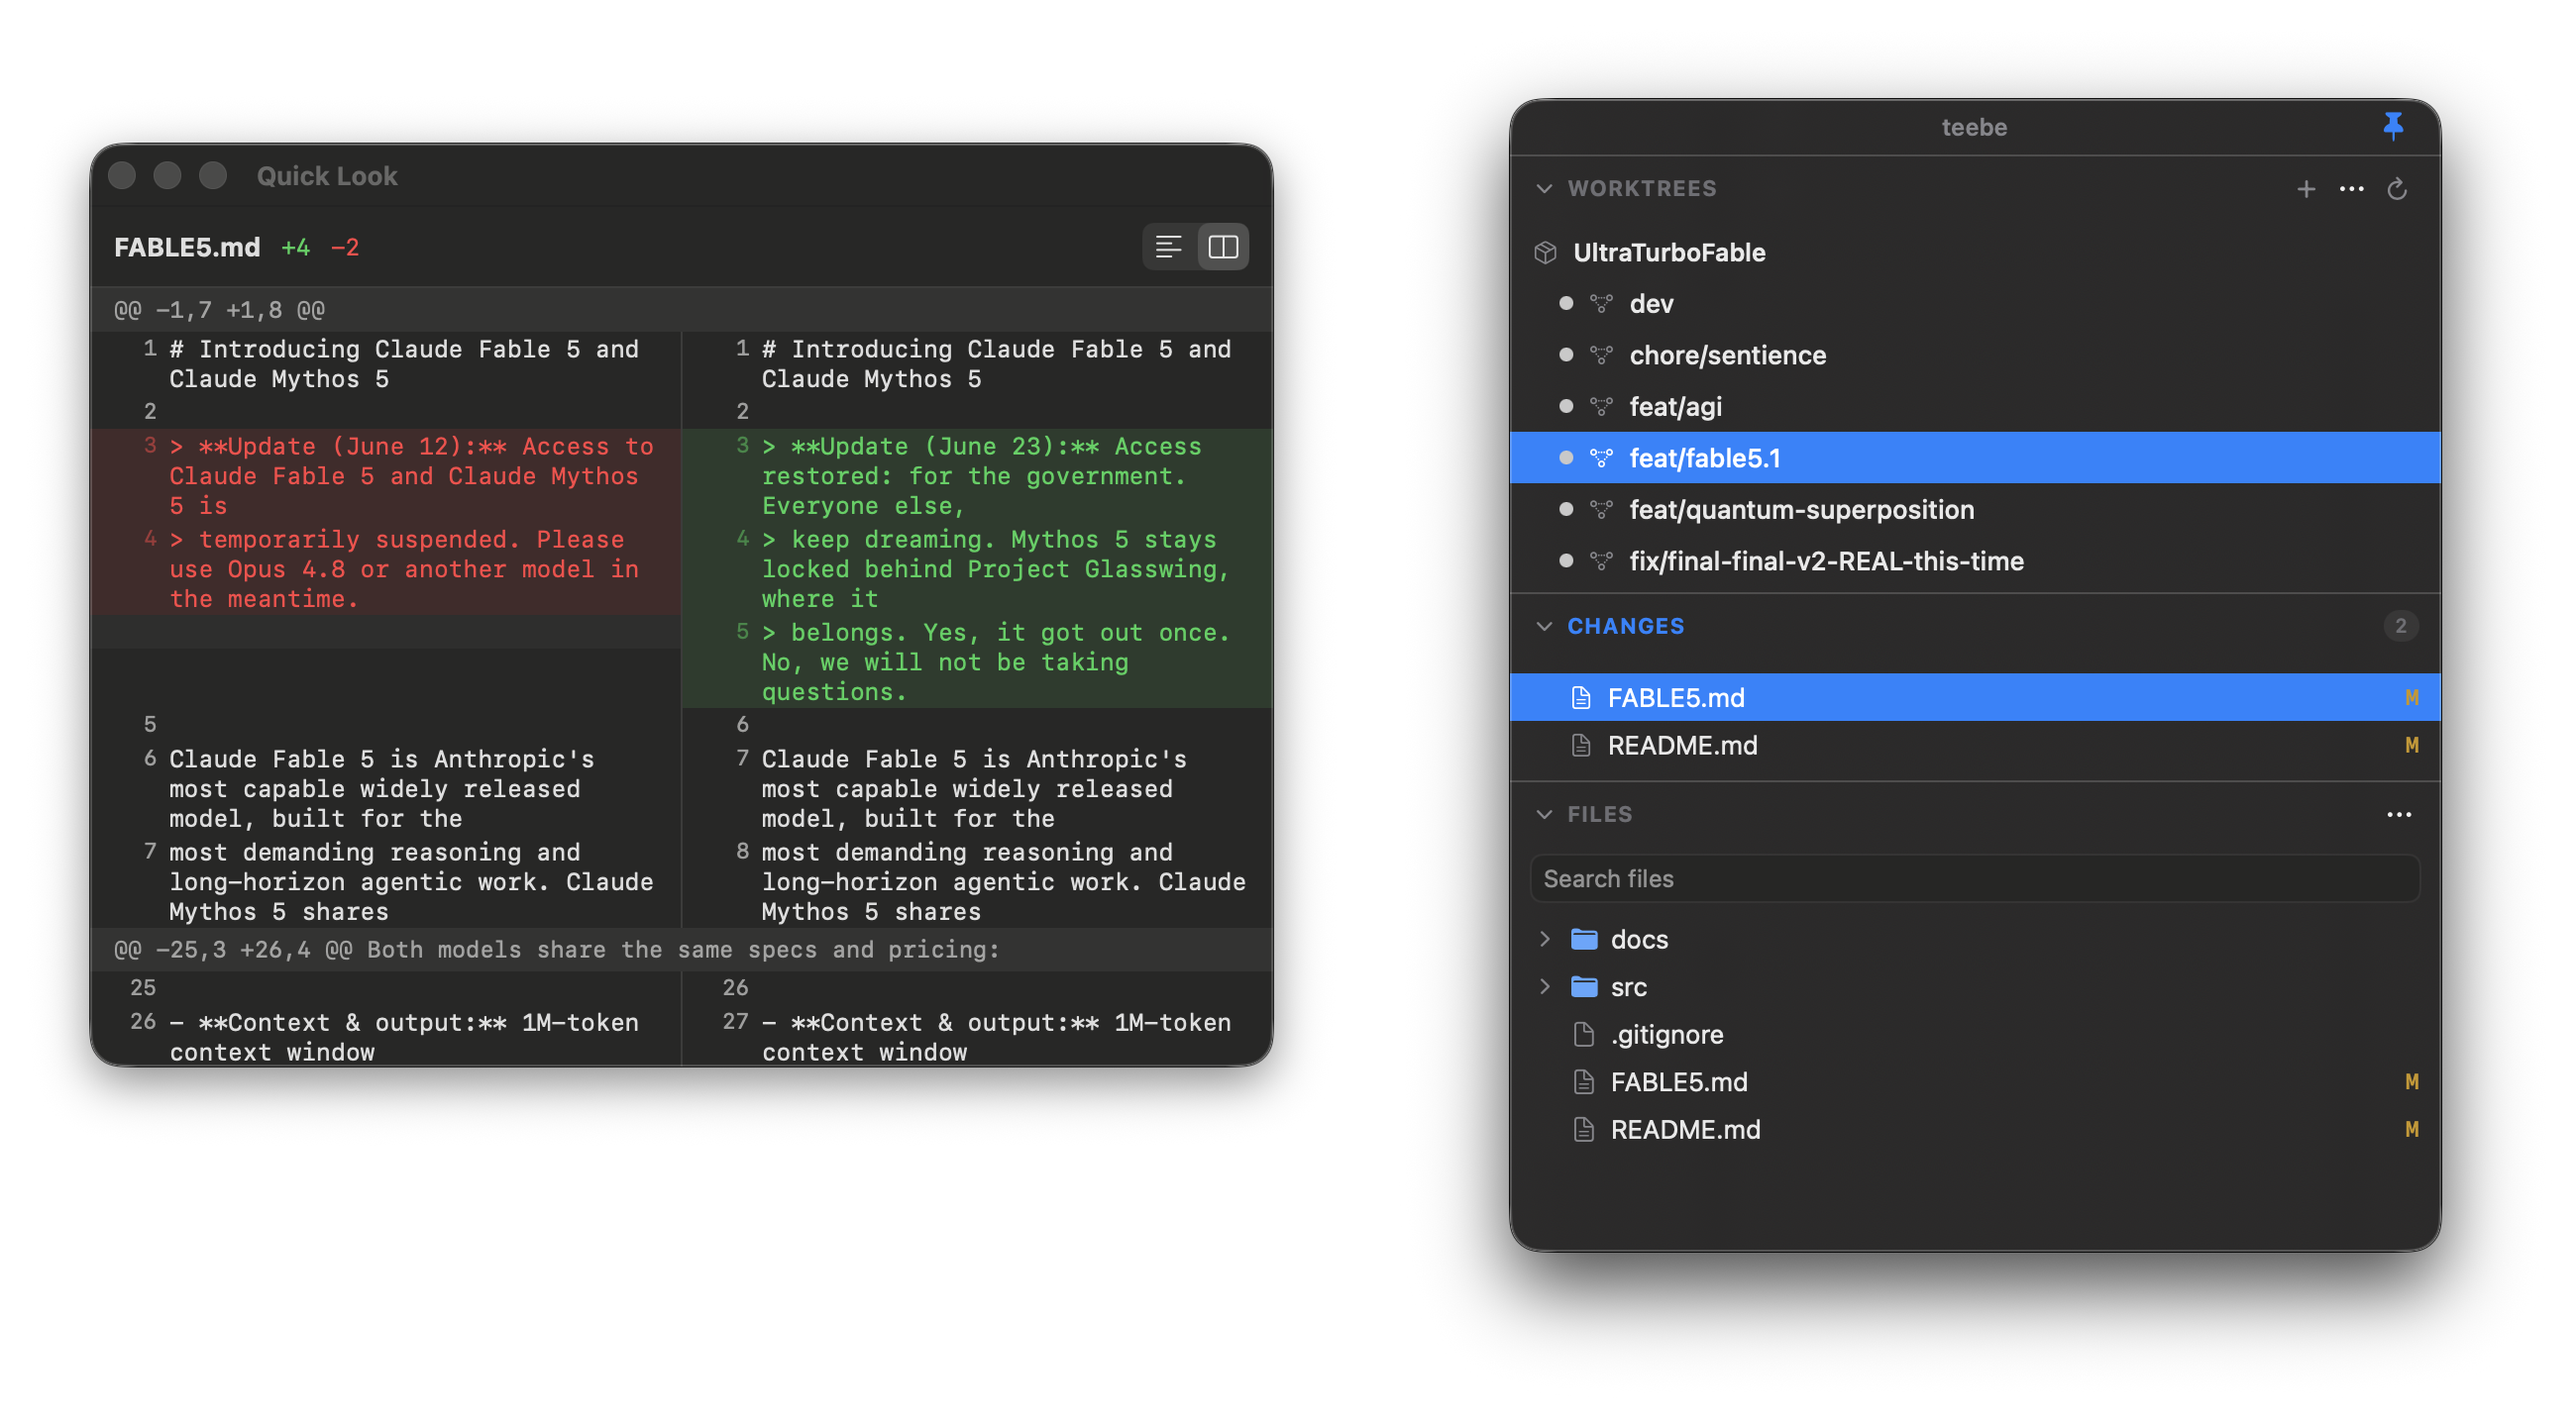
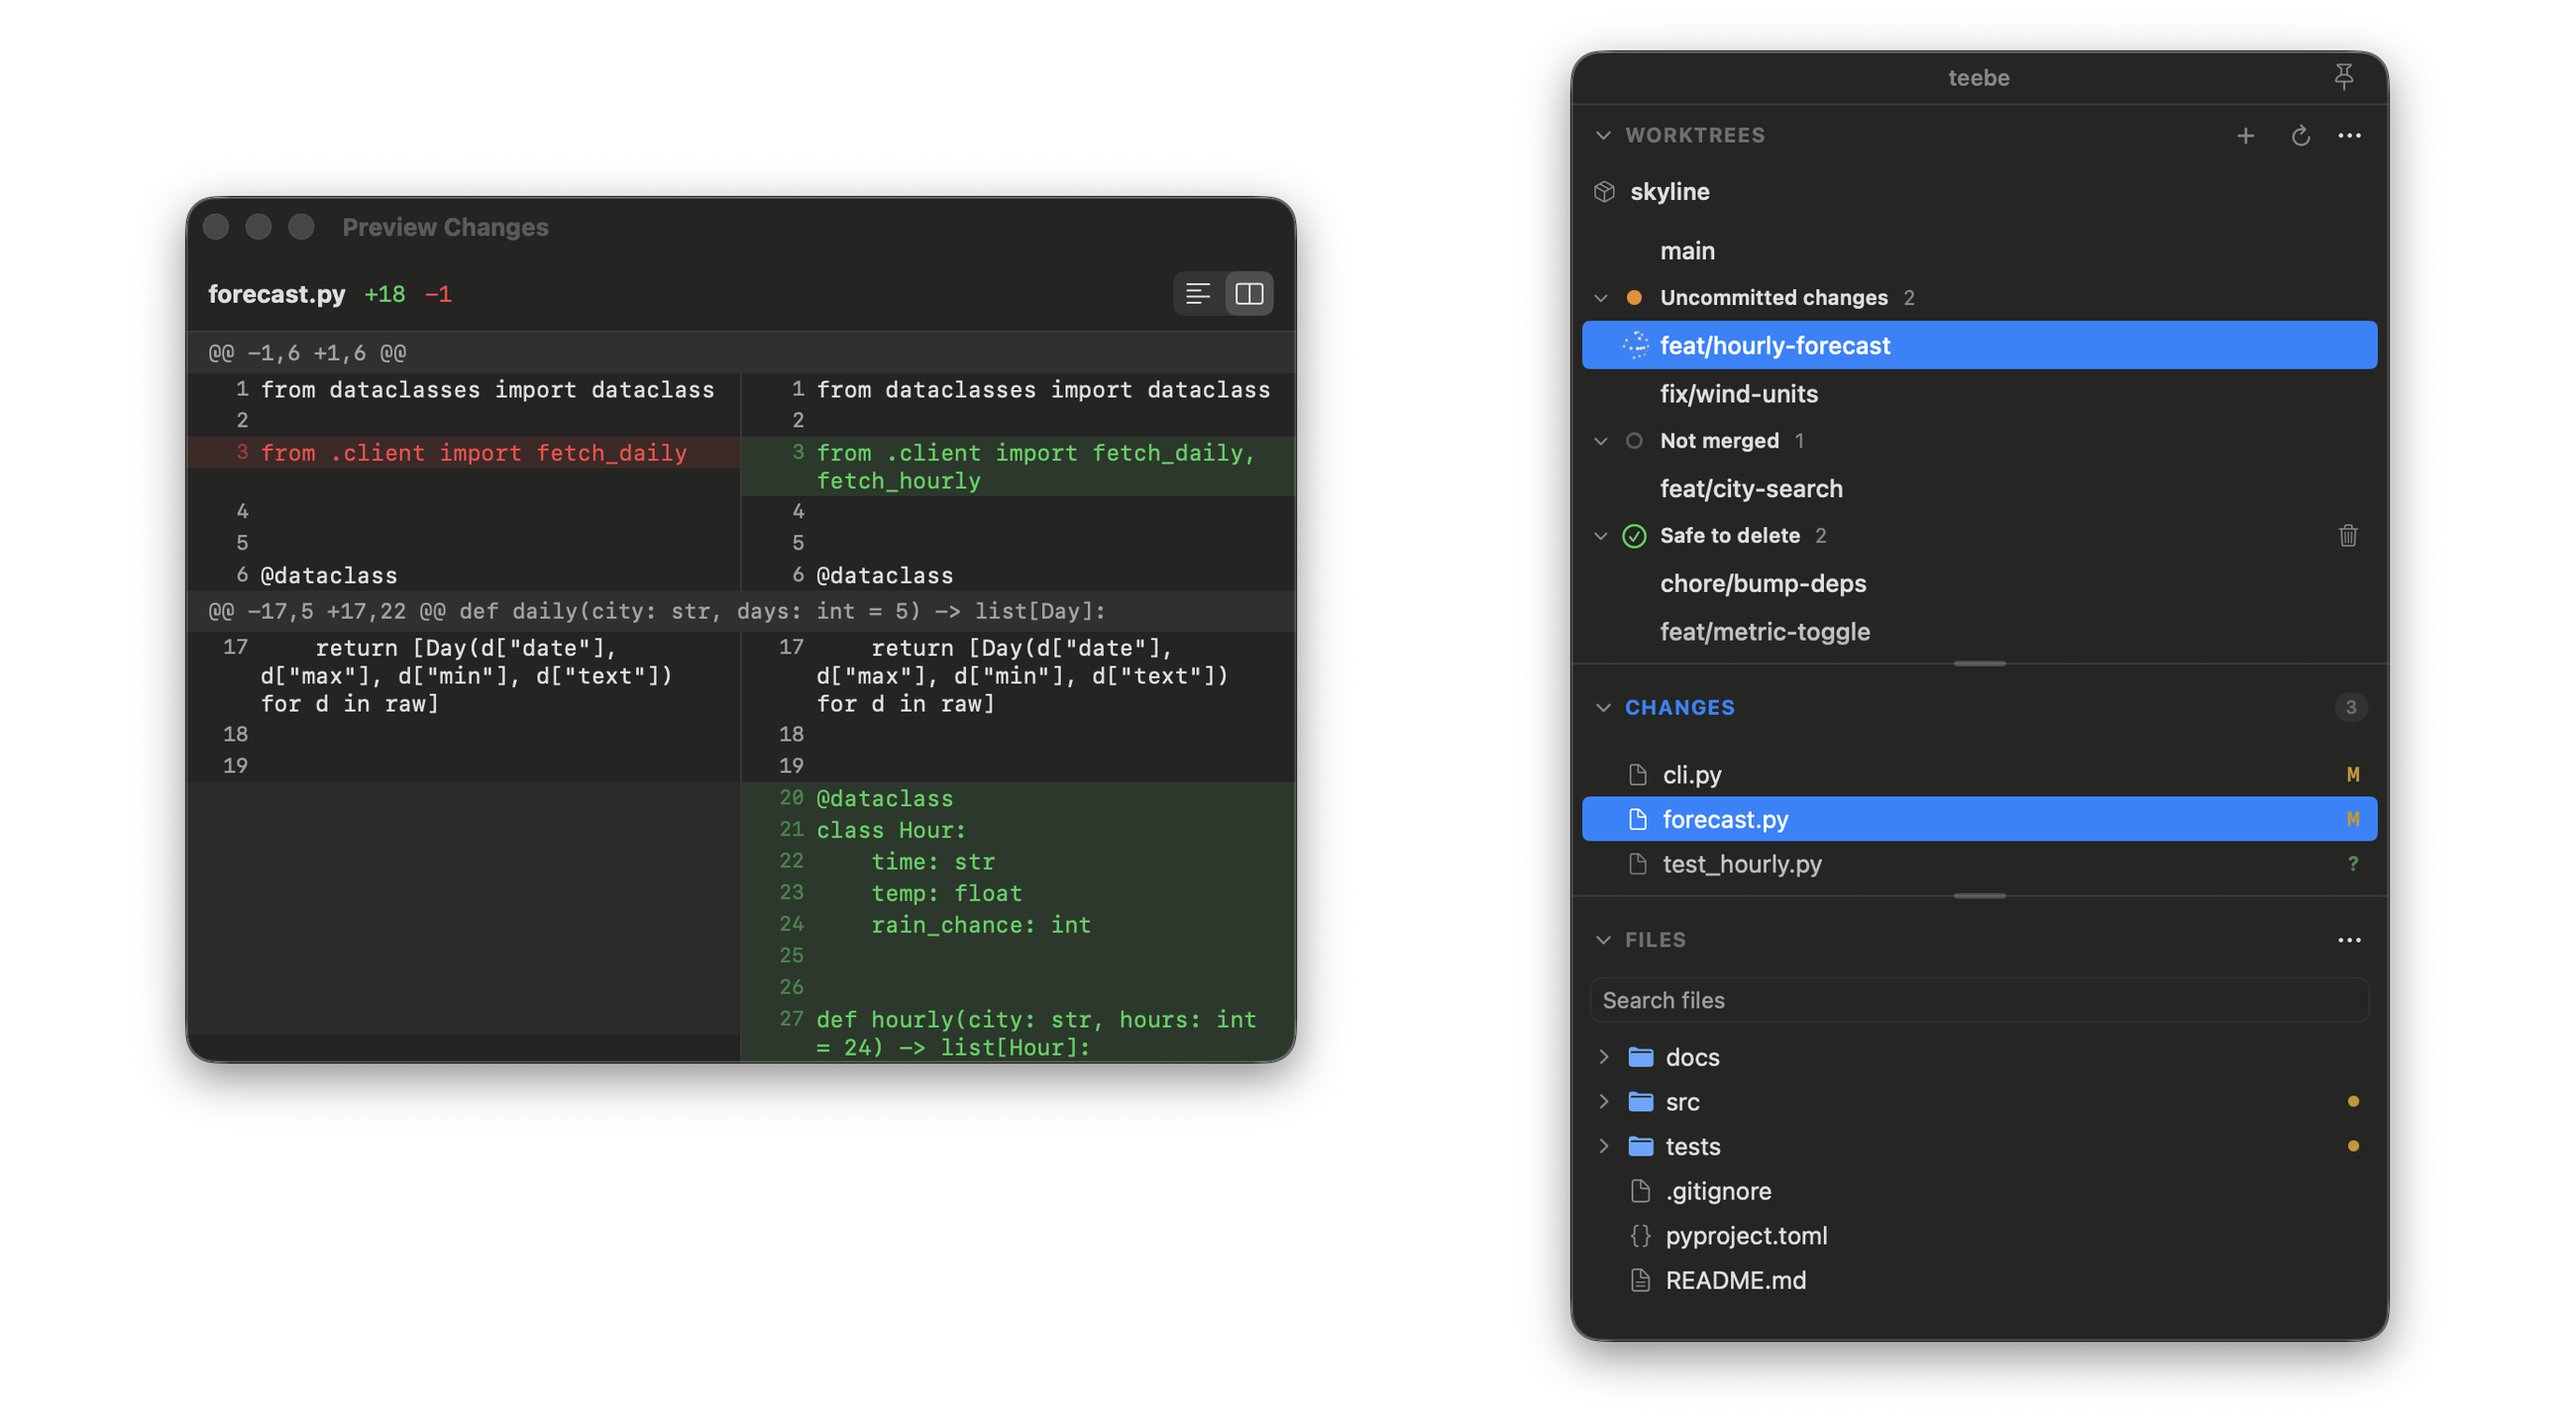
docs(readme): update README and screenshots for 0.8 (#284)
The README still described teebe before 0.8: no status marks, merge
detection, cleanup, New Worktree sheet or agent activity, and it claimed
mapping agents to worktrees was a later integration. The screenshots
predated the translucent window.

- Shorter intro that says what teebe is: all worktrees across all repos,
and which Claude Code, Codex and Cursor agents are working in each.
- "What it does" covers the 0.8 features from CHANGELOG.md; older
bullets folded so the README stays about the same length.
- "What it is not" corrected (teebe watches agents, it does not run
them), plus a link to the comparison page.
- The three "Why" sections merged into one.
- New light and dark screenshots from a demo repo: worktrees grouped by
status, CHANGES, and a side-by-side diff peek.

Docs and images only, no source changes.

Fixes #283

Changed region(s): [[0.0, 0.0919, 0.5296, 0.7967], [0.5608, 0.0306, 0.9658, 0.9805]]

diff --git a/README.md b/README.md
@@ -7,9 +7,9 @@
 <p align="center"><strong>Git worktrees, without the IDE.</strong></p>
 
 <p align="center">
-  A native macOS git worktree manager and GUI. See every worktree in one window,<br>
-  including the ones Claude Code, Codex and Cursor create for each session, and watch<br>
-  the files inside them change live, with inline diffs right beside your terminal.
+  An open-source macOS app to see all git worktrees across all your repos in one window.<br>
+  See which Claude Code, Codex and Cursor agents are working in each worktree and what<br>
+  they are changing, live. Built for running several AI coding agents in parallel.
 </p>
 
 <p align="center">
@@ -30,7 +30,7 @@
 <p align="center">
   <picture>
     <source media="(prefers-color-scheme: dark)" srcset="assets/teebe-dark.png">
-    <img src="assets/teebe-light.png" alt="teebe beside a Quick Look diff: the WORKTREES, CHANGES and FILES sections of a worktree, with the selected change peeked open as a side-by-side diff" width="900">
+    <img src="assets/teebe-light.png" alt="teebe with a demo repo: worktrees grouped by status (an agent working, uncommitted changes, not merged, safe to delete), the CHANGES list of the selected worktree, and one change peeked open as a side-by-side diff" width="900">
   </picture>
 </p>
 
@@ -50,51 +50,49 @@ Free and open source · macOS 14 or newer · Apple Silicon and Intel.
 
 ## Why
 
-Terminal agents are the fastest way to ship with AI. They are also a black box:
-the agent says "done", and you are left tabbing between `git status` and your
-editor to find out what "done" means across five worktrees.
+Terminal agents are the fastest way to ship with AI, and also a black box: the
+agent says "done" and you are left running `git status` across five worktrees to
+find out what that means. Managing those worktrees usually means memorising
+`git worktree` commands or opening a full IDE just to look at a branch.
 
-teebe fixes exactly that, and nothing else. Point it at your worktrees and each
-one gets a full file tree in a small native window beside your terminal: browse
-what is inside every worktree, watch files light up as agents edit them, and
-peek any diff with one keystroke. It does not run your agents, does not touch
-your code, and does not replace your tools.
-
-## Why a worktree manager without the IDE
-
-Managing worktrees usually means memorising `git worktree` commands or booting a
-full IDE just to look at a branch. teebe keeps every worktree of every repo in one
-list, and you can add a new one or remove a finished one straight from it. Each
-worktree shows its ahead/behind counts and the files that changed, so you can tell
-which branches still have work in them before you clean them up. Changed files badge
-live as your agents edit them, and one keystroke peeks the diff without opening an
-editor; ⌘⇧C copies the selected files as `@`-refs to paste back into an agent prompt.
+teebe is a small native window that sits beside your terminal and shows every
+worktree of every repo, which ones have an agent in them, what each one changed,
+and which are merged and safe to remove. Git clients like Fork or Sublime Merge
+center on one repo, lazygit lives in the terminal, and agent managers like
+Conductor run the agents for you. teebe only watches.
 
 ## What it does
 
-- **Worktree-aware browsing.** Pick any worktree of any repo and explore its
-  full file tree. Switch between trees instantly.
-- **Live as your agents work.** Files badge and the tree updates the moment
-  something changes on disk, so you watch edits land in real time.
-- **Diffs, one keystroke away.** Select a changed file and press Space to peek
-  its diff in a floating window, unified or side by side, without leaving teebe.
-- **One CHANGES view.** Everything modified in the current worktree, gathered in
-  a single list with ahead/behind counts for the branch.
-- **Every repo at once.** Add multiple repos and see all their worktrees together.
-- **Opens into your tools.** Press Return on a file and it launches in the native
-  app you already use. teebe is the navigator; your editor stays the editor.
-- **Claude-ready copies.** ⌘⇧C copies the selected files as `@`-refs, ready to
-  paste into a Claude Code prompt.
-- **Stays out of the way.** Pin the window on top, collapse any section, follow
-  the system appearance or force light/dark, and let it idle at near-zero CPU
-  when covered.
+- **Every worktree, every repo.** All worktrees of all your repos in one list,
+  each with a full file tree you can browse.
+- **Status at a glance.** One mark per worktree: an agent working, uncommitted
+  changes, commits not merged yet, or merged and safe to delete. Group and sort
+  the list by status.
+- **Agent activity.** See when Claude Code or Codex is working or waiting in a
+  worktree, with optional notifications when a turn finishes. Files badge live
+  as any agent or tool edits them.
+- **Merge detection that understands squash merges.** Worktrees are checked
+  against your default and integration branches, and a background fetch keeps
+  it current.
+- **Cleanup in one step.** Remove one worktree, or every one that is safe to
+  delete, after a confirmation that lists them. Commits only that worktree
+  still reached are kept in a hidden backup.
+- **New worktrees without the commands.** Create one on a new or existing
+  branch, from any starting point, in a folder teebe suggests.
+- **Diffs, one keystroke away.** Press Space on a change to peek its diff,
+  unified or side by side. Return opens a file in the app you already use, and
+  ⌘⇧C copies files as `@`-refs for an agent prompt.
 
 ## What it is not
 
-- Not a code editor: content editing happens in your native apps, not here.
-- Not a full git client: no rebase, cherry-pick, or merge-conflict resolution.
+- Not an agent runner or orchestrator: it does not start or steer agents, it
+  watches them.
+- Not a code editor: editing happens in your own apps.
+- Not a full git client: no rebase, cherry-pick, or conflict resolution.
 - Not cross-platform: macOS only.
-- Not an agent orchestrator: mapping agents to worktrees is a later integration.
+
+How it compares with other worktree tools:
+[teebe.io/compare/git-worktree-gui-mac](https://teebe.io/compare/git-worktree-gui-mac/).
 
 ## Keyboard
 
@@ -117,8 +115,9 @@ The full list lives in the app under **teebe → Keyboard Shortcuts**.
 
 teebe is multi-repo and remembers whatever you had selected last.
 
-- **Add a repo:** click **+** in the WORKTREES header, or open the **···** menu
-  and choose **Add Repository…**, then pick the repo folder.
+- **Add a repo:** open the **···** menu in the WORKTREES header, choose
+  **Add Repository…**, then pick the repo folder.
+- **New worktree:** click **+** in the WORKTREES header.
 - **Switch repos:** open the **···** menu and choose any repo you have added.
 - **Remove the current repo:** **···** menu → **Remove _name_**.
 
@@ -161,14 +160,6 @@ temp repos. See [`CONTRIBUTING.md`](CONTRIBUTING.md) for the full setup.
 - `Sources/Teebe/` is the SwiftUI app: `@Observable` view models and thin views.
 - `Tests/` holds the Swift Testing suites (`TeebeCoreTests`, `TeebeTests`),
   protocol fakes, and a `GitFixture` real-git harness.
-
-## Why it exists
-
-There is no open-source, Finder-like, **worktree-aware** file browser. Existing
-tools are either git clients centered on a single repo (Fork, Sublime Merge),
-terminal TUIs (lazygit), or agent-session managers (Crystal, Conductor). None
-give you a live, cross-worktree "mission control" of what your agents are
-touching right now.
 
 ## License
 
